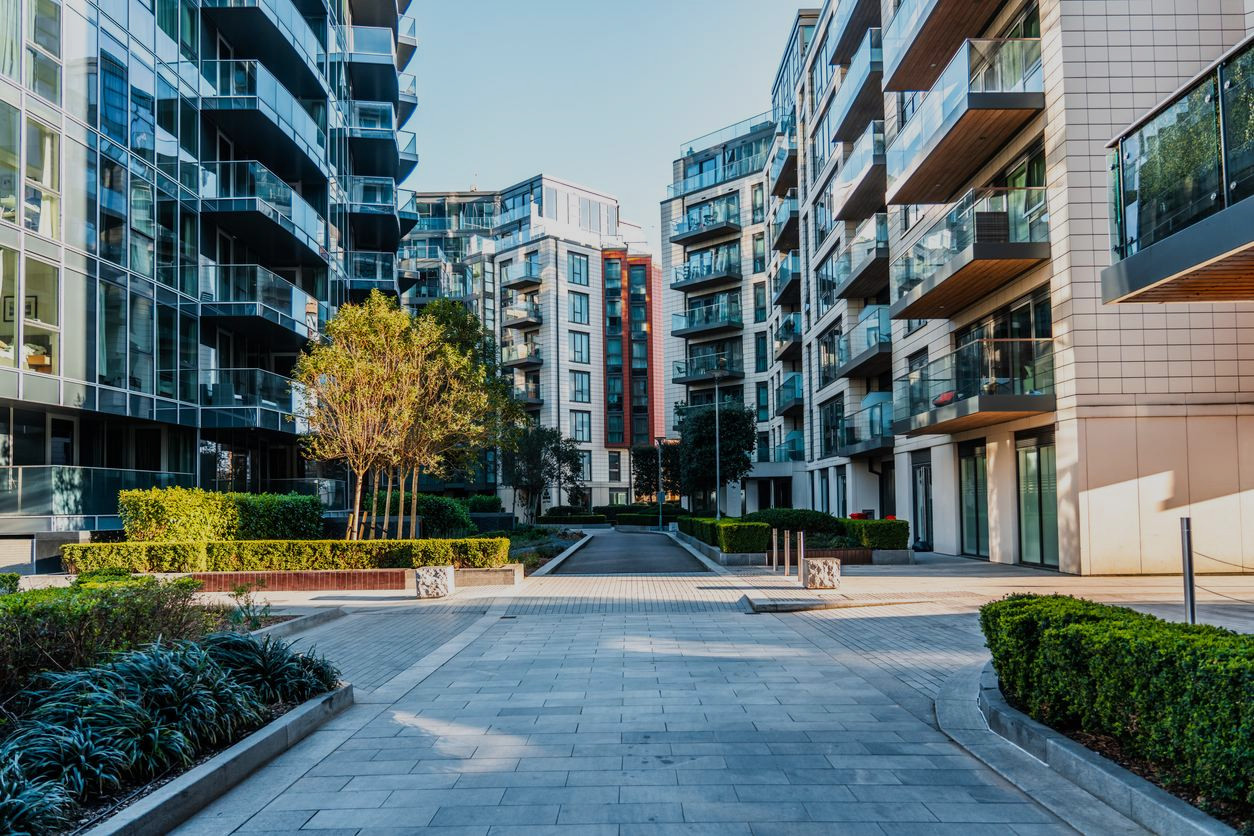
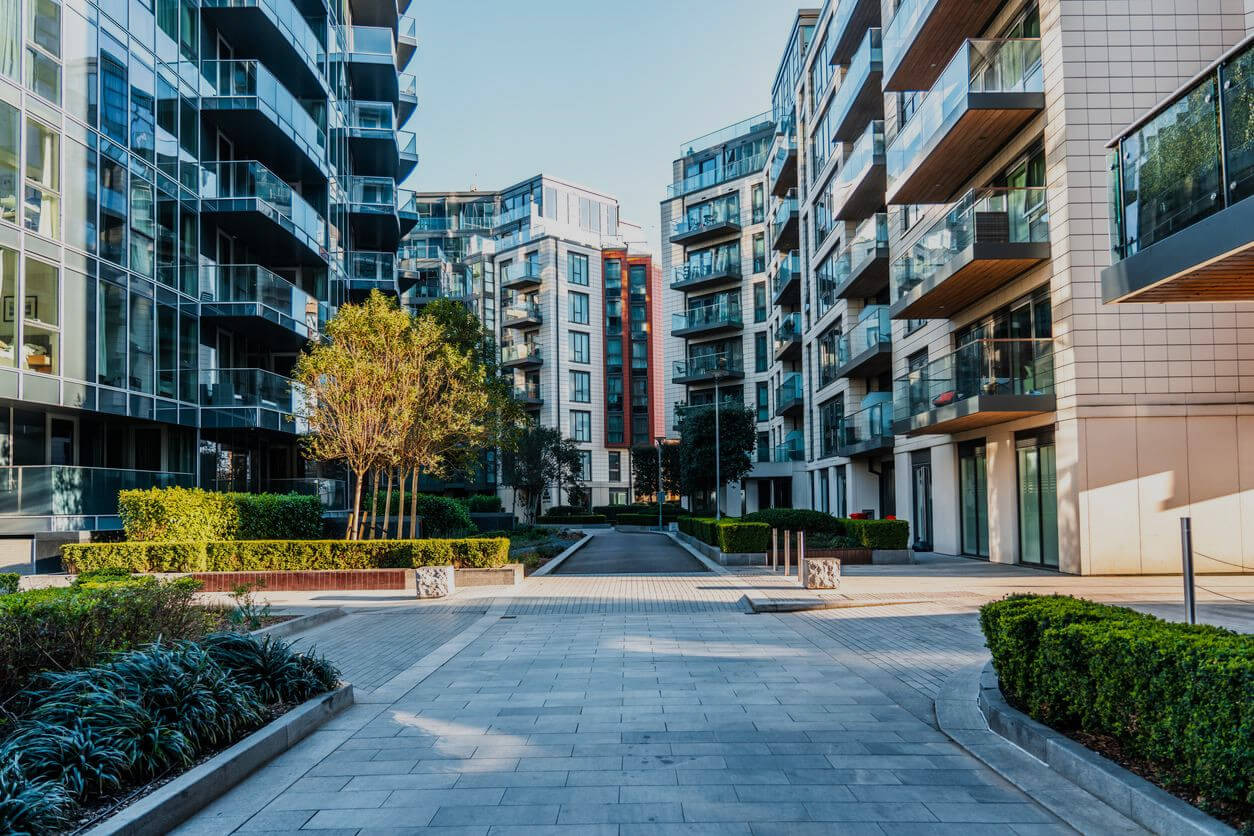
image compression and menu tweak

Changed region(s): [[0.0622, 0.5909, 0.1866, 0.6842], [0.1866, 0.6531, 0.2799, 0.6842]]

diff --git a/src/pages/home/home.less b/src/pages/home/home.less
@@ -14,29 +14,6 @@
         font-weight: bold;
     }
 
-    // TODO: Testing fonts - Remove later
-    // section:nth-of-type(1) {
-    //     font-family: "CovesLight";
-    // }
-
-    // section:nth-of-type(2) {
-    //     font-family: "Verdana";
-    //     font-size: 1.1rem;
-    // }
-
-    // section:nth-of-type(3) {
-    //     font-family: "Roboto";
-    // }
-
-    // section:nth-of-type(4) {
-    //     font-family: "Open Sans";
-
-    // }
-
-    // section:nth-of-type(5) {
-    //     font-family: "Merriweather";
-    // }
-
     .why-invest {
         margin-bottom: 30px;
         .title{

diff --git a/src/index.tsx b/src/index.tsx
@@ -1,8 +1,6 @@
 import React from "react";
 import ReactDOM from "react-dom/client";
 import App from "./App";
-// TODO: Delete this line; I got rid of the bootstrap
-// import "bootstrap/dist/css/bootstrap-grid.min.css";
 import "./theme/global.less";
 
 const el = document.getElementById("root")!;

diff --git a/src/components/layout/header.less b/src/components/layout/header.less
@@ -46,7 +46,7 @@
 }
 
 /* Larger desktops */
-@media(min-width: 1441px) {
+@media(min-width: 1575px) {
 
     .header-container {
 

diff --git a/README.md b/README.md
@@ -1,4 +1,4 @@
 # Porter Legacy Group Application
 React, TypeScript, Less Application
 
-#TODO - Write a real readme
+#Brochure-ware site for Porter Legacy Group
